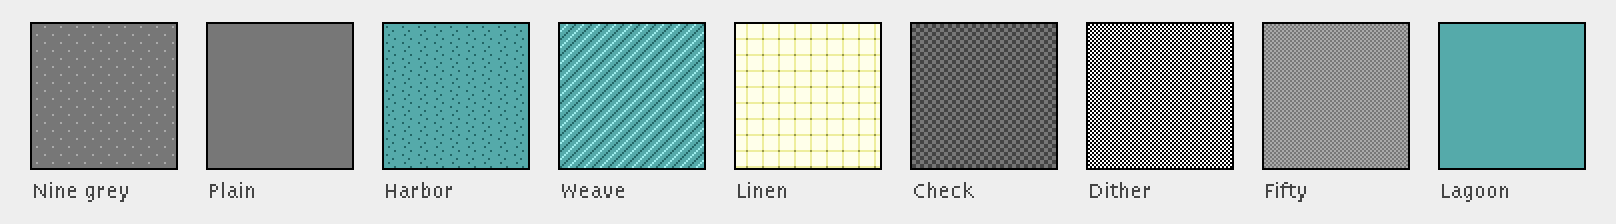
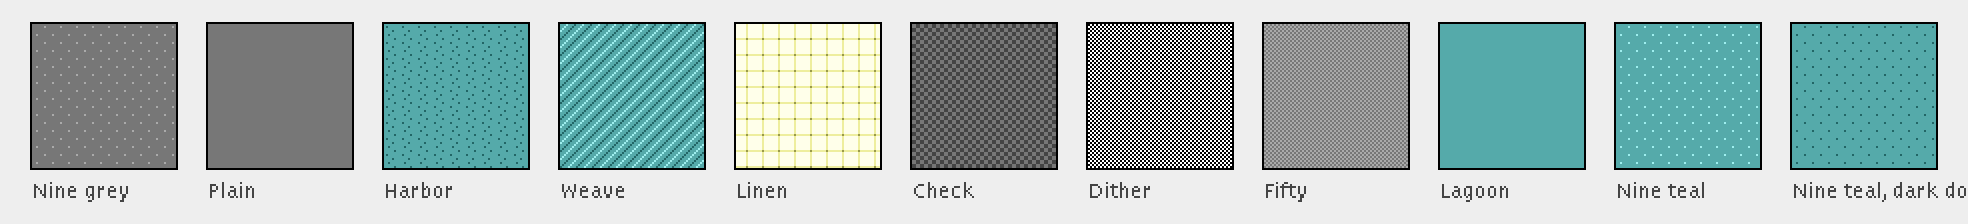
assets: butter title bars on a dotted teal desktop (two dot shades)
Claude-Session: https://claude.ai/code/session_01LLcnT3VBRMhaqdJJxs96at

diff --git a/assets/tools/mockup.py b/assets/tools/mockup.py
@@ -41,6 +41,10 @@ BASE = dict(
 THEMES = {
     "nine": dict(),
     "nine-butter": dict(tbg="butter", thl="cream", trule="olive"),
+    "butter-teal": dict(tbg="butter", thl="cream", trule="olive",
+                        desktop="nineteal"),
+    "butter-deep": dict(tbg="butter", thl="cream", trule="olive",
+                        desktop="ninedeep"),
     "nine-grey": dict(tbg="grey1", thl="paper", trule="grey3", tbg_off="paper"),
     "seven": dict(desktop="fifty", sel="ink", tbg="paper", thl=None,
                   trule="ink", rulestep=2, tbg_off="paper", tfg_off="grey3",

diff --git a/assets/README.md b/assets/README.md
@@ -235,6 +235,8 @@ bar, the Finder and the palette, and changes only chrome and controls.
 |---|---|
 | `nine` | the guide as written above (sea title bar) |
 | `nine-butter` | title bar in rio's butter with olive rules |
+| `butter-teal` | butter title bars on a teal desktop with Nine grey's dot hatching in sea |
+| `butter-deep` | the same with darker (deep) dots |
 | `nine-grey` | neutral grey1 title bar with grey3 rules |
 | `seven` | closer to System 7: paper title bars with dense ink rules, ink selection, rounder buttons, white dialogs with an ink band, dithered scroll tracks, a 50% grey desktop, rounded screen corners |
 | `win` | closer to Windows 3.1: solid navy title bar with paper title, a control box and shrink/grow buttons, a grey sizing border, bevelled grey buttons and scroll bars, grey dialogs, a teal desktop |
